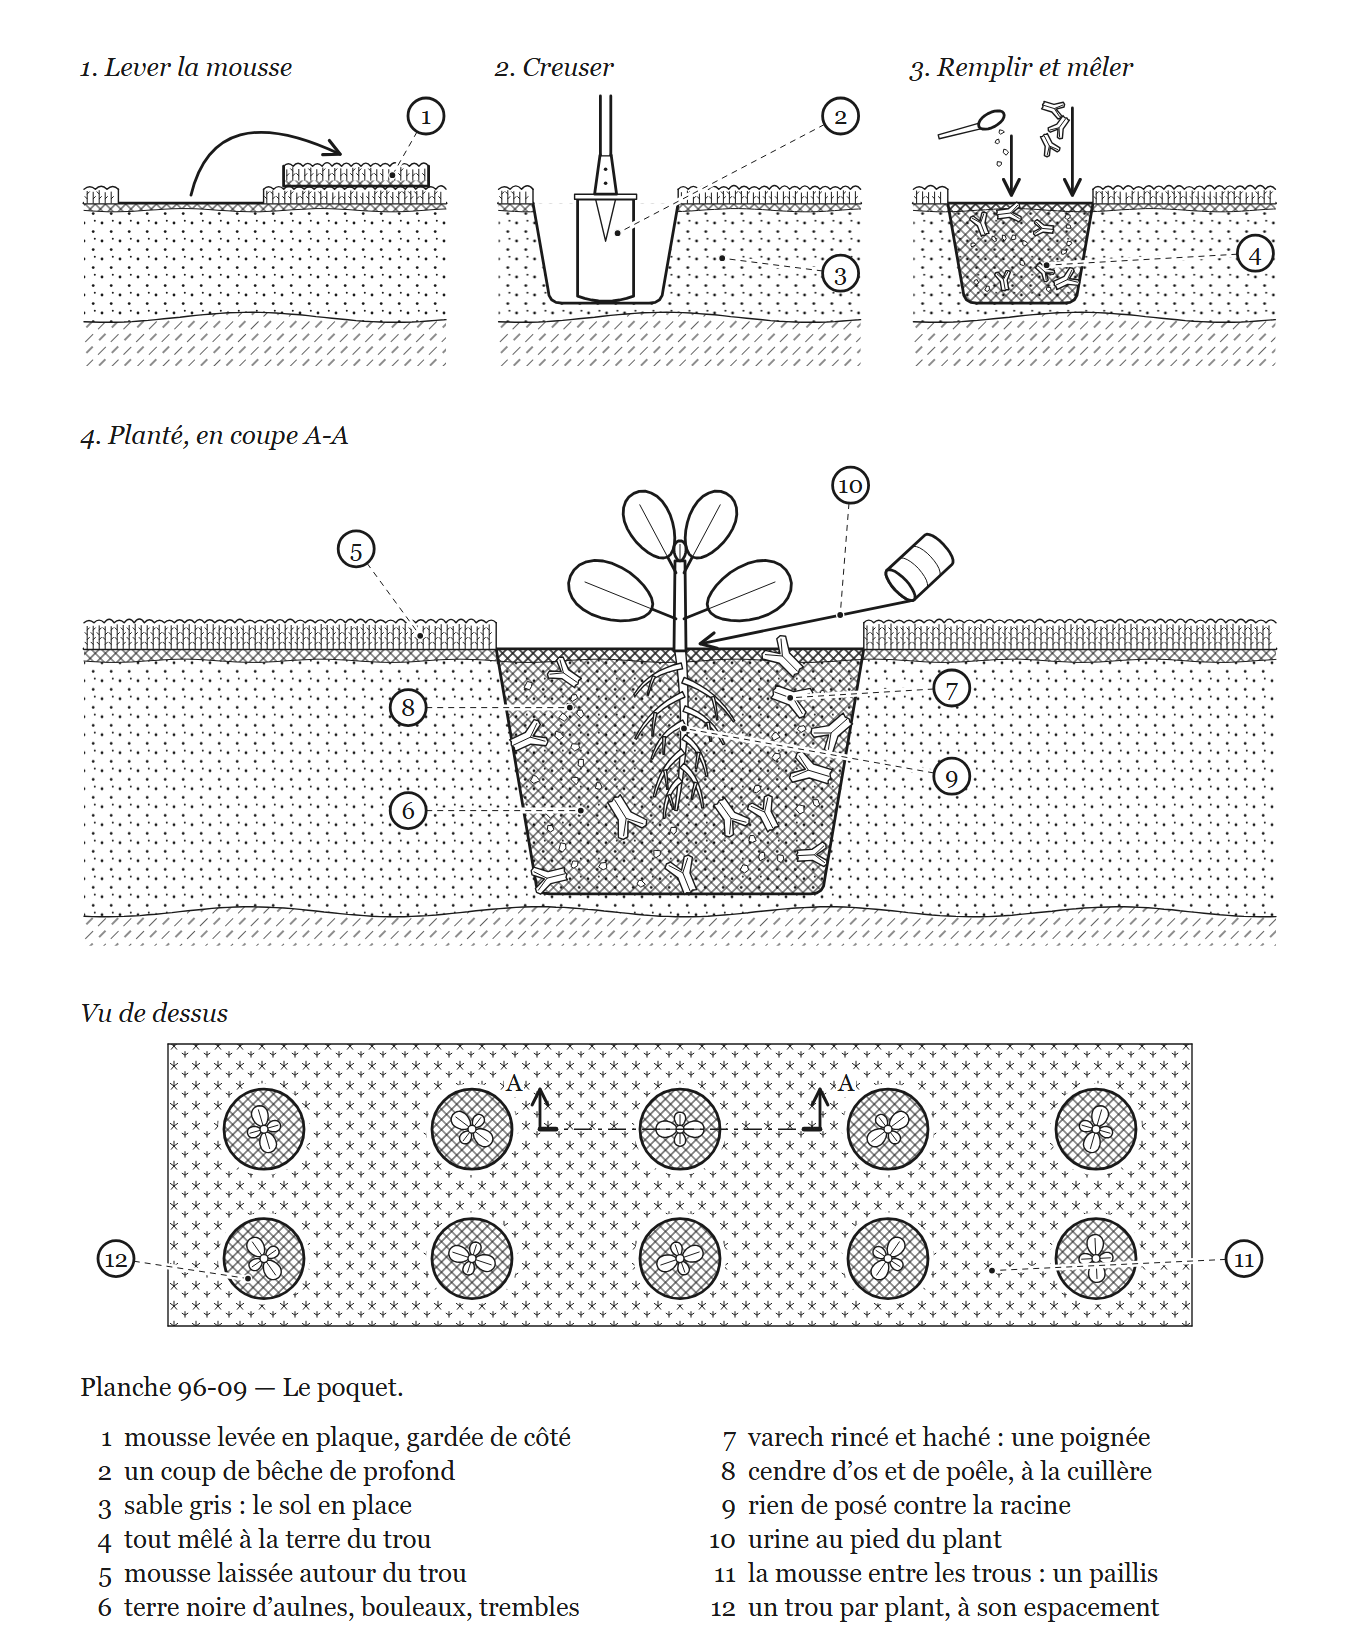
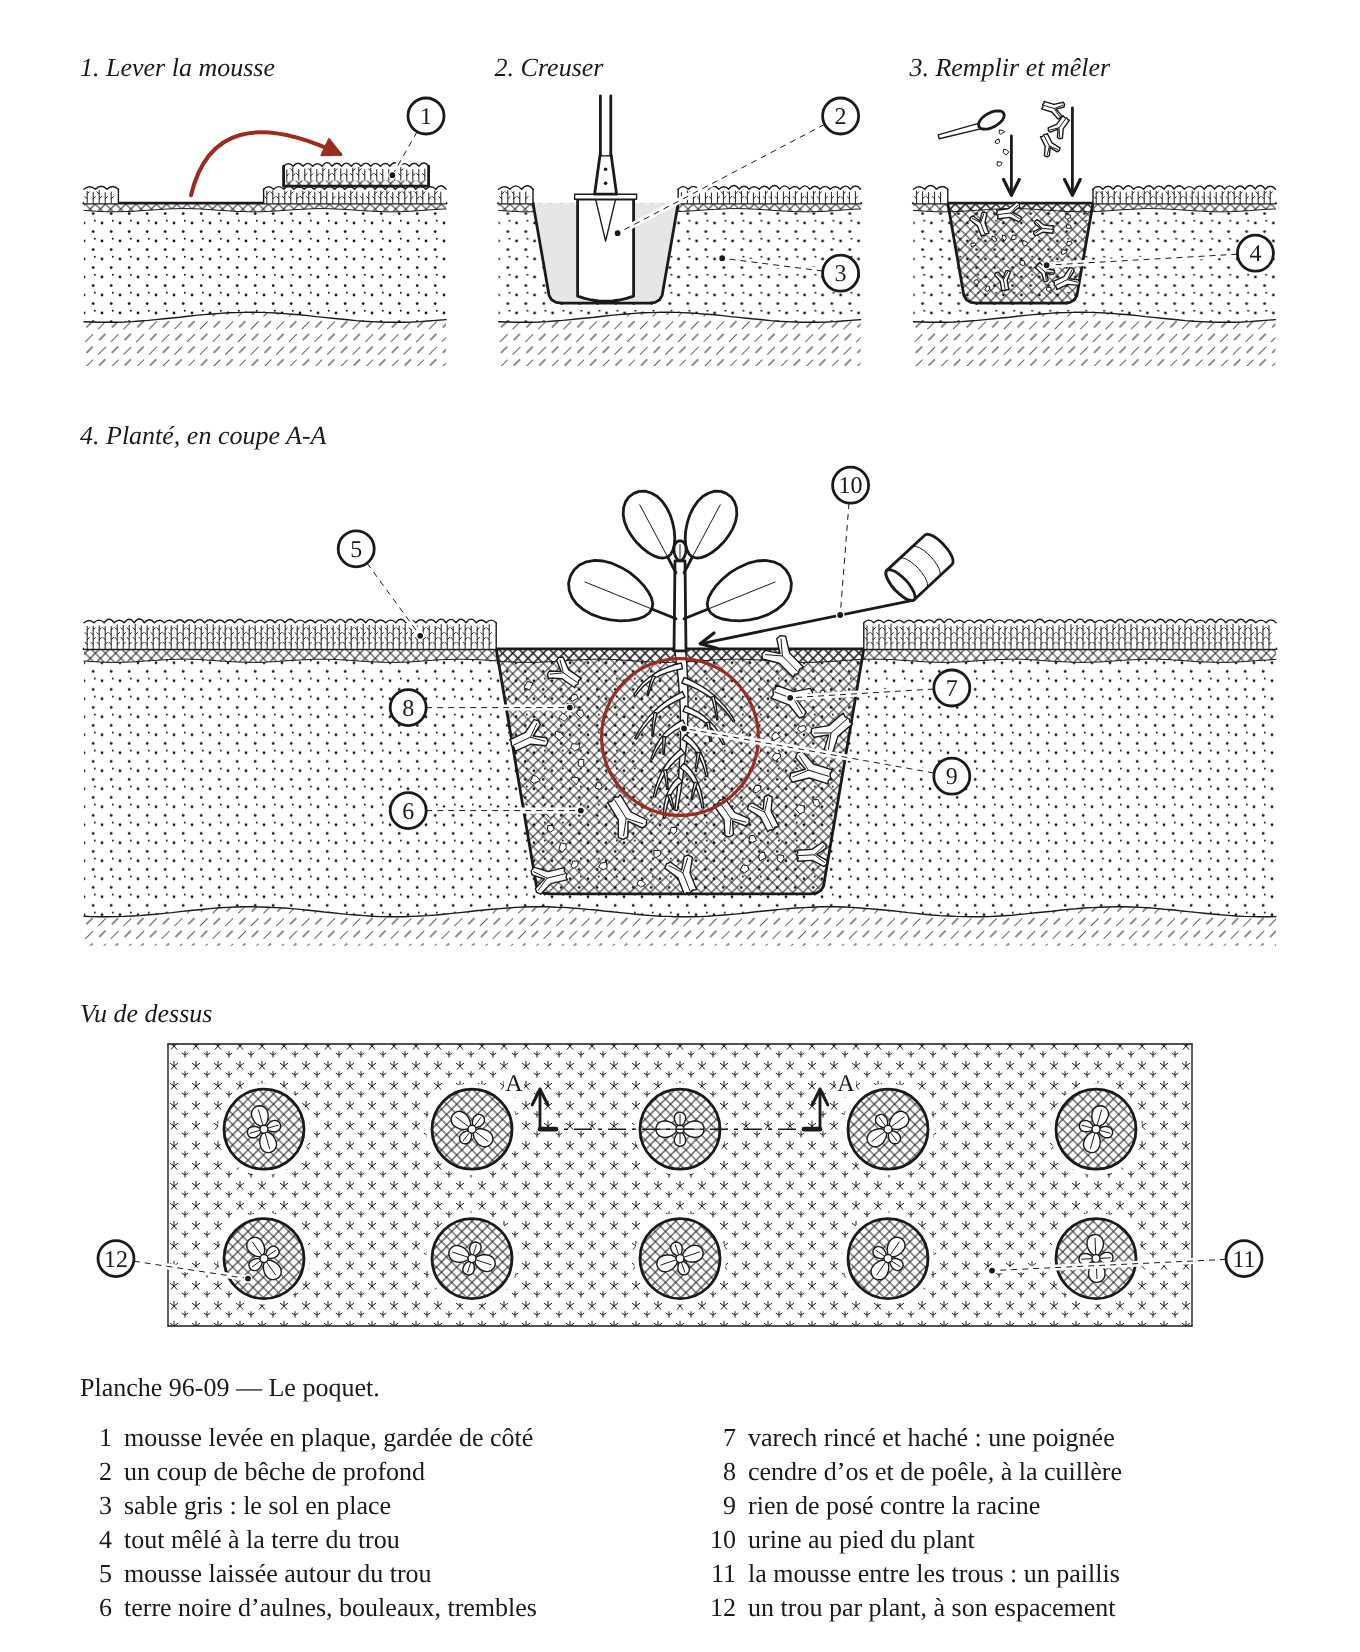
Charte, mains et têtes : travail en cours
Claude-Session: https://claude.ai/code/session_014xDY5FLxFXDJt3nYAYznSZ

diff --git a/images/planches-src/96-09.js b/images/planches-src/96-09.js
@@ -311,7 +311,7 @@ module.exports = (h) => {
           out.push(poly(ell, blanc(h.a.arete)));
           out.push(h.fleche(`M ${f(u.a[0])} ${f(u.a[1])} L ${f(u.b[0])} ${f(u.b[1])}`));
           // le point à vérifier : la terre autour de la racine, où rien n'est posé
-          out.push(h.controle(rz.cx, rz.cy, rz.ry * 0.85));
+          out.push(h.controle(rz.cx, g.ys + 0.36 * g.D, 0.32 * g.D));
           return out.join('\n');
         },
         renvois: (z) => {
